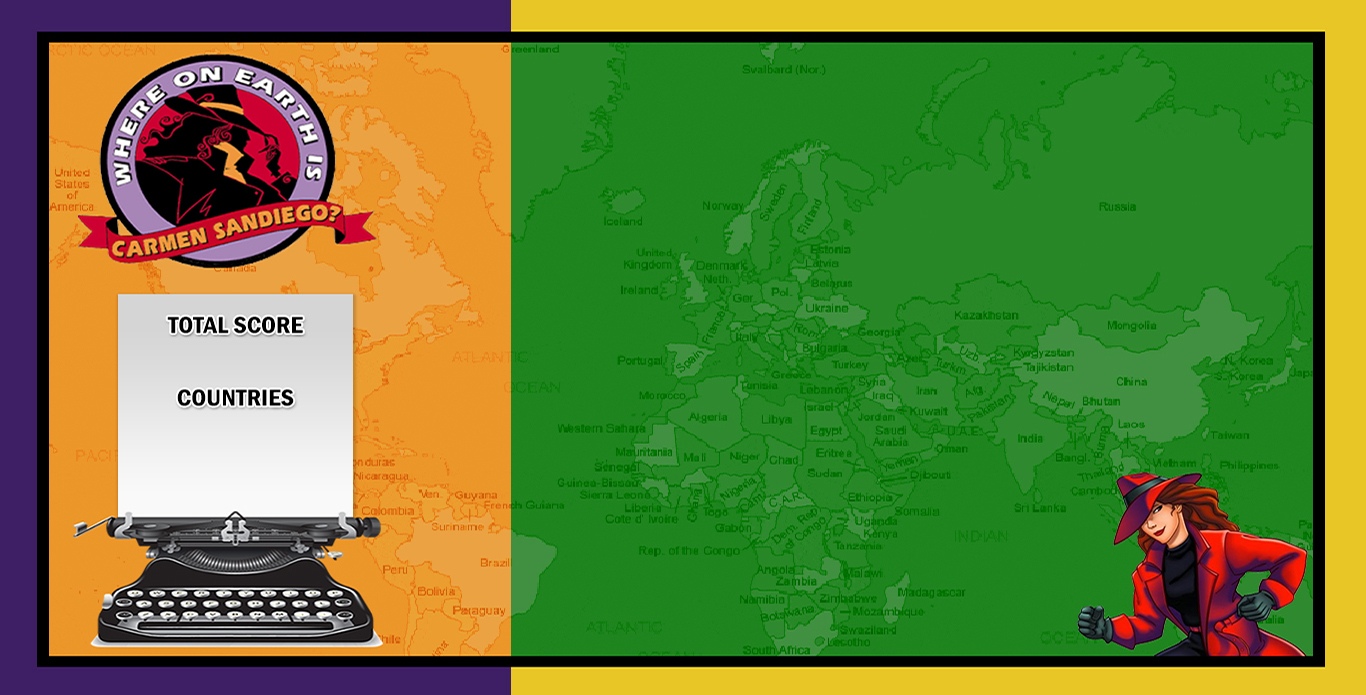
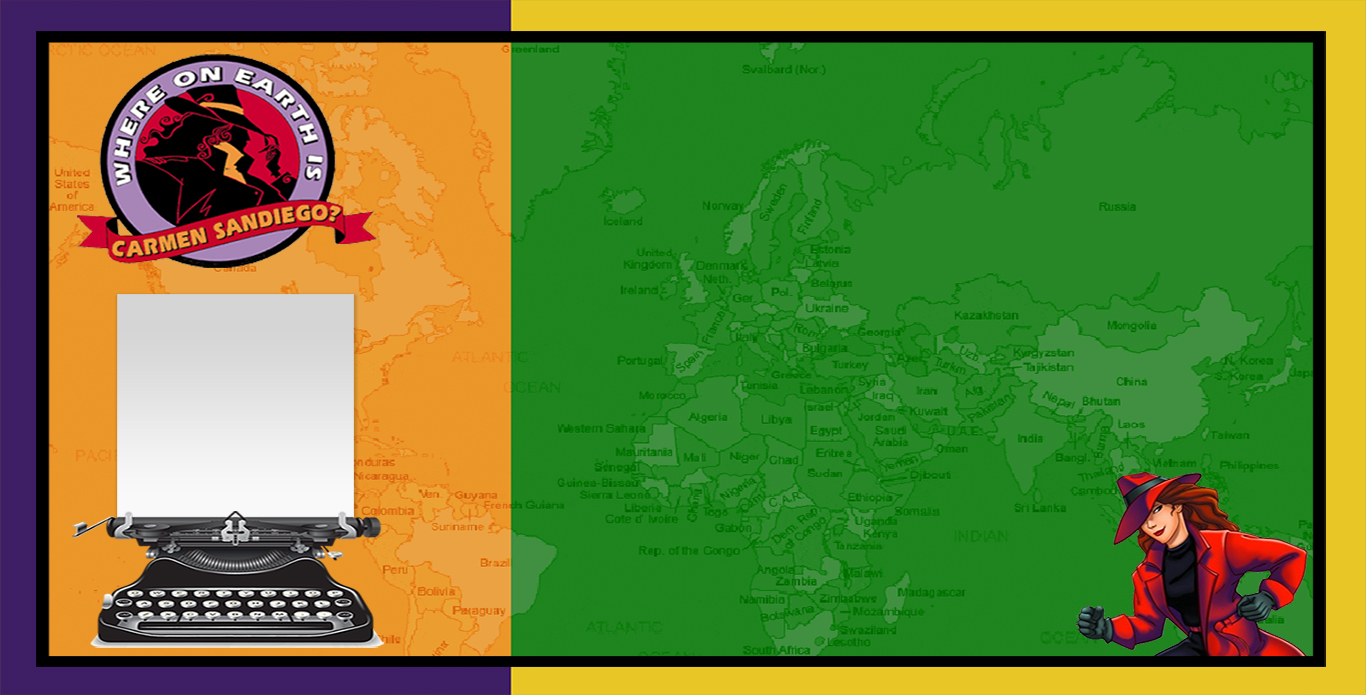
yaeri html change

Changed region(s): [[0.123, 0.5439, 0.2152, 0.6043], [0.123, 0.4532, 0.246, 0.4835], [0.369, 0.0302, 0.3997, 0.0604]]

diff --git a/index.html b/index.html
@@ -13,180 +13,57 @@
     </head>
 
     <body>
+        <div class="total_score">
+            Total Score
+        </div>
 
-    <header>
-        <h1>Where in the World is Carmen Sandiego?</h1>
-    </header>
+        <div class="countries">
+            Countries
+        </div>
 
-    <div class="map">
-        <div id="googleMap"></div>
-    </div>
+        <div class="map">
+            <div id="googleMap"></div>
+        </div>
 
+
+        <!-- Modal for Instructions -->
         <div id='instructions_div' class="modal">
             <div class="instructions">
                 <img class= 'play_btn' src="img/play.png">
             </div>
         </div>
 
+        <!-- Modal for Trivia-->
         <div id='trivia_div' class="modal">
             <div class="trivia">
                 <div class="trivia_questions">TRIVIA QUESTIONS</div>
-                <img class= 'submit_btn' src="img/SUBMIT.png">
-                <div class="right">
-                    <img src = "img/check_gr.png">
-                    <img src = "img/check_bk.png">
+                <div>
+                    <h2 id="question"></h2>
+                    <input type="radio" name="answers" id="first_choice"> <span id="first"></span>
+                    <input type="radio" name="answers" id="second_choice"> <span id="second"></span>
+                    <input type="radio" name="answers" id="third_choice"> <span id="third"></span>
+                    <input type="radio" name="answers" id="fourth_choice"> <span id="fourth"></span>
                 </div>
+            <img class= 'submit_btn' src="img/SUBMIT.png">
+            <div class="right">
+                <img src = "img/check_gr.png">
+                <img src = "img/check_bk.png">
             </div>
-
-        <div id="modals">
-                <!-- Modal for Landing Instructions -->
-            <button type="button" id="instruction btn" class="btn btn-info btn-lg" data-toggle="modal" data-target="#instructions">instructions</button>
-
-            <div id="instructions" class="modal" role="dialog">
-                    <div class="modal-dialog modal-lg">
-
-                        <!-- Modal content-->
-                        <div class="modal-content">
-                            <div class="modal-header">
-                                <button type="button" class="close" data-dismiss="modal">&times;</button>
-                                <h4 class="modal-title">Instructions for Play</h4>
-                            </div>
-                            <div class="modal-body">
-                                <p>Look at the map</p>
-                                <p>Answer the trivia questions correctly.</p>
-                                <p>If you answer three correctly, you can follow Carmen to the new country!</p>
-                                <p>If not, try again later. No judgement.</p>
-                            </div>
-                            <div class="modal-start">
-                                <button type="button" class="btn btn-warning" data-dismiss="modal">Start</button>
-
-                            </div>
-                            <!--<div class="modal-footer">-->
-                                <!--<button type="button" class="btn btn-default" data-dismiss="modal">Close</button>-->
-                            <!--</div>-->
-                        </div>
-
-                    </div>
-                </div>
-
-                <div class="wrong">
-                    <img src = "img/cross_rd.png">
-                    <img src = "img/cross-bk.png">
-                </div>
-
-                    <!-- Modal for Trivia Questions -->
-            <button type="button" id="trivia_btn" class="btn btn-info btn-lg" data-toggle="modal" data-target="#trivia">trivia</button>
-
-            <div id="trivia" class="modal" role="dialog">
-                        <div class="modal-dialog">
-
-                            <!-- Modal content-->
-                            <div class="modal-content">
-                                <div class="modal-header">
-                                    <button type="button" class="close" data-dismiss="modal">&times;</button>
-                                    <h4 class="modal-title">Answer these questions correctly to capture Carmen!</h4>
-                                </div>
-                                <div class="modal-body">
-                                    <h2 id="question"></h2>
-                                    <input type="radio" name="answers" id="first_choice"> <span id="first"></span>
-                                    <input type="radio" name="answers" id="second_choice"> <span id="second"></span>
-                                    <input type="radio" name="answers" id="third_choice"> <span id="third"></span>
-                                    <input type="radio" name="answers" id="fourth_choice"> <span id="fourth"></span>
-                                </div>
-                                <br>
-                                <div>
-                                    <button type="button" class="btn btn-primary" id="submit_trivia">Submit</button>
-                                    <p id="answer">Right</p>
-                                </div>
-                                <div class="modal-footer">
-                                    <button type="button" class="btn btn-default" data-dismiss="modal">Close</button>
-                                </div>
-                            </div>
-
-                        </div>
-                    </div>
-
-                    <!-- Modal for Country Win-->
-            <button type="button" id="win1 btn" class="btn btn-info btn-lg" data-toggle="modal" data-target="#country_win">country_win</button>
-
-            <div id="country_win" class="modal" role="dialog">
-                        <div class="modal-dialog">
-
-                            <!-- Modal content-->
-                            <div class="modal-content">
-                                <div class="modal-header">
-                                    <button type="button" class="close" data-dismiss="modal">&times;</button>
-                                    <h4 class="modal-title">You followed her to this country!</h4>
-                                </div>
-                                <div class="modal-body">
-                                    <p>Answer the next set of trivia questions to follow her to the next country!</p>
-                                </div>
-                                <div class="modal-start">
-                                    <button type="button" class="btn btn-primary" data-dismiss="modal">Move on!</button>
-
-                                </div>
-                            </div>
-
-                        </div>
-                    </div>
-
-                    <!-- Modal for Real Win-->
-            <button type="button" id="win2 btn" class="btn btn-info btn-lg" data-toggle="modal" data-target="#real_win">Real_win</button>
-
-            <div id="real_win" class="modal" role="dialog">
-                        <div class="modal-dialog">
-
-                            <!-- Modal content-->
-                            <div class="modal-content">
-                                <div class="modal-header">
-                                    <button type="button" class="close" data-dismiss="modal">&times;</button>
-                                    <h4 class="modal-title">You caught Carmen Sandiego! The police now have her in custody thanks to you!</h4>
-                                </div>
-                                <div class="modal-body">
-                                    <p>Thanks for playing the game and catching this international criminal.</p>
-                                </div>
-                                <div class="modal-start">
-                                    <button type="button" class="btn btn-primary" data-dismiss="modal">Play again!</button>
-
-                                </div>
-                            </div>
-
-                        </div>
-                    </div>
-
-                    <!-- Modal for Losers-->
-            <button type="button" id="losers btn" class="btn btn-info btn-lg" data-toggle="modal" data-target="#country_lose">country_lose</button>
-
-            <div id="country_lose" class="modal" role="dialog">
-                        <div class="modal-dialog">
-
-                            <!-- Modal content-->
-                            <div class="modal-content">
-                                <div class="modal-header">
-                                    <button type="button" class="close" data-dismiss="modal">&times;</button>
-                                    <h4 class="modal-title">You can't follow her to this country!</h4>
-                                </div>
-                                <div class="modal-body">
-                                    <p>You were not able to answer enough trivia correctly. Don't worry, try again.</p>
-                                </div>
-                                <div class="modal-start">
-                                    <button type="button" class="btn btn-info" data-dismiss="modal">Try again.</button>
-
-                                </div>
-                            </div>
-
-                        </div>
-                    </div>
-                </div>
+            <div class="wrong">
+                <img src = "img/cross_rd.png">
+            <img src = "img/cross-bk.png">
+            </div>
             </div>
         </div>
 
+        <!-- Modal for Win Condition-->
         <div id='win_div' class="modal">
             <div class="win">
                 <img class= 'playagain_btn' src="img/play_again.jpg">
             </div>
         </div>
 
+        <!-- Modal for Lose Condition-->
         <div id='lose_div' class="modal">
             <div class="lose">
                 <img class= 'playagain_btn' src="img/play_again.jpg">

diff --git a/main.js b/main.js
@@ -1,8 +1,8 @@
-Weglot.setup({
-    api_key: 'wg_2fce281d81d90095a77029ebf6244897',
-    originalLanguage: 'en',
-    destinationLanguages : 'fr,es,ar,it,ko,de,ru,pt,ja,zh',
-});
+// Weglot.setup({
+//     api_key: 'wg_2fce281d81d90095a77029ebf6244897',
+//     originalLanguage: 'en',
+//     destinationLanguages : 'fr,es,ar,it,ko,de,ru,pt,ja,zh'
+// });
 
 $(document).ready(function(){
     console.log('document ready');
@@ -16,6 +16,7 @@ $(document).ready(function(){
       submit_trivia_hit();
     });
     input_click_handlers();
+    $('#instructions_div').modal('show');
 });
 
 var trivia_question_counter = 0;

diff --git a/style.css b/style.css
@@ -13,9 +13,8 @@ body {
     width: 54%;
     height: 86%;
     margin-left: 34%;
-    margin-top: 4%;
+    margin-top: 8%;
     border: 5px black solid;
-    border-radius: 15px;
 }
 #googleMap{
     width:100%;
@@ -109,5 +108,16 @@ span {
 
 #submit_trivia {
     margin-left: 2vw;
->>>>>>> 96c4f42c417b813a7bed097f38b7b454cc1d762f
+}
+.total_score {
+    position: absolute;
+    font-size: 20px;
+    margin-top: 16%;
+    margin-left: 14%;
+}
+.countries {
+    position: absolute;
+    font-size: 20px;
+    margin-top: 22%;
+    margin-left: 14%;
 }
